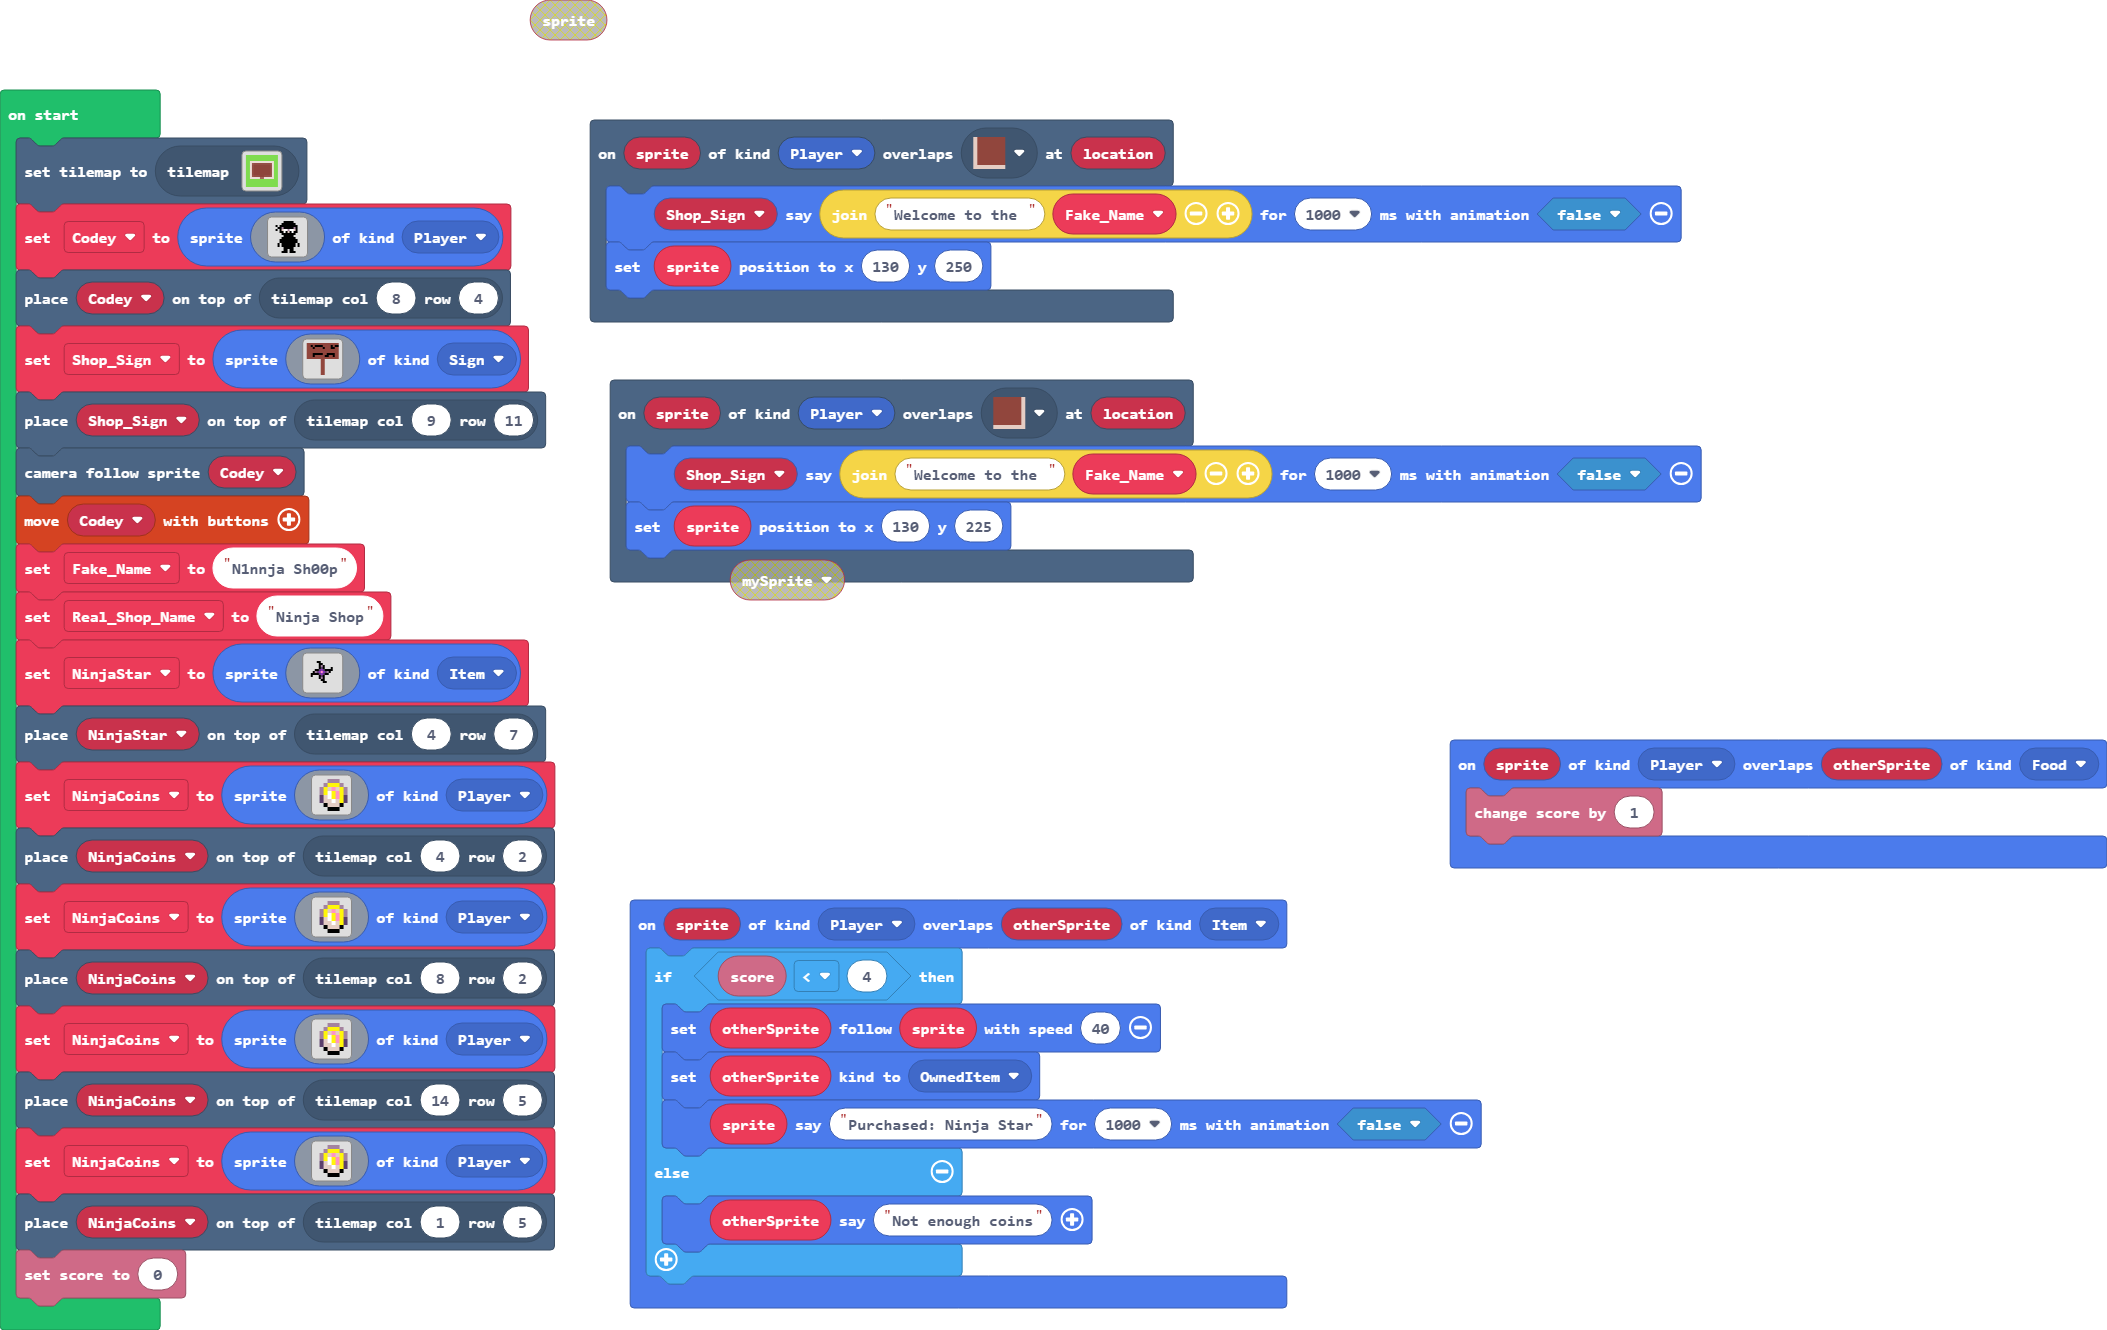
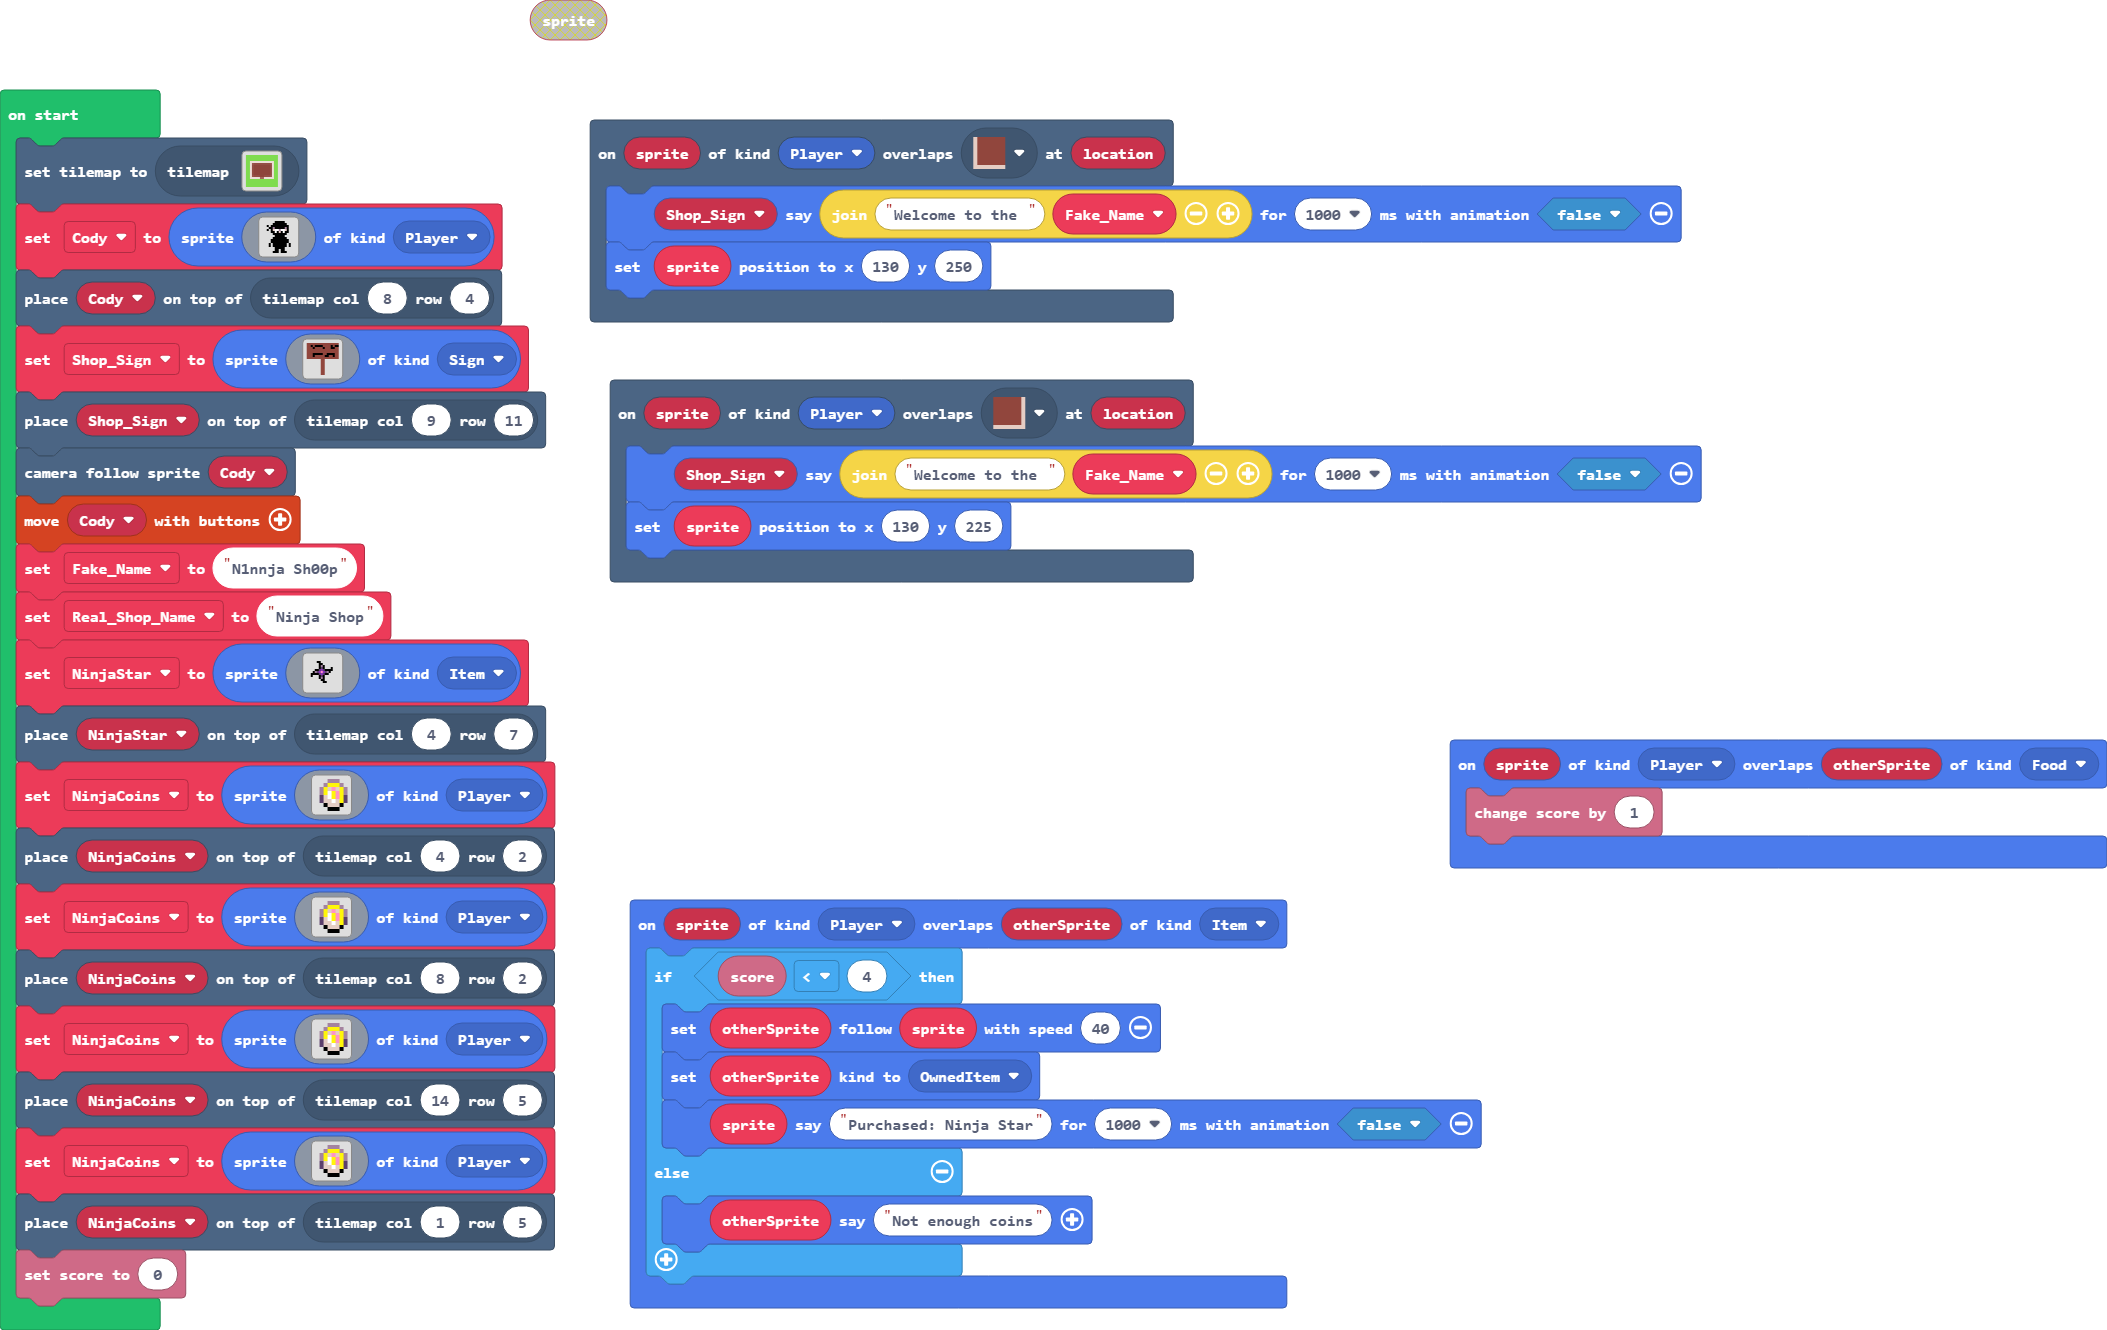
Change block names riddle 1

Changed region(s): [[0.0617, 0.1541, 0.2468, 0.2466], [0.3393, 0.4008, 0.401, 0.4624], [0.0617, 0.3391, 0.1542, 0.4008]]

diff --git a/main.ts b/main.ts
@@ -26,12 +26,12 @@ sprites.onOverlap(SpriteKind.Player, SpriteKind.Food, function (sprite, otherSpr
 let Fake_Name = ""
 let Shop_Sign: Sprite = null
 tiles.setCurrentTilemap(tilemap`Store`)
-let Codey = sprites.create(assets.image`Ninja`, SpriteKind.Player)
-tiles.placeOnTile(Codey, tiles.getTileLocation(8, 4))
+let Cody = sprites.create(assets.image`Ninja`, SpriteKind.Player)
+tiles.placeOnTile(Cody, tiles.getTileLocation(8, 4))
 Shop_Sign = sprites.create(assets.image`Sign`, SpriteKind.Sign)
 tiles.placeOnTile(Shop_Sign, tiles.getTileLocation(9, 11))
-scene.cameraFollowSprite(Codey)
-controller.moveSprite(Codey)
+scene.cameraFollowSprite(Cody)
+controller.moveSprite(Cody)
 Fake_Name = "N1nnja Sh00p"
 let Real_Shop_Name = "Ninja Shop"
 let NinjaStar = sprites.create(assets.image`Ninja Star`, SpriteKind.Item)
